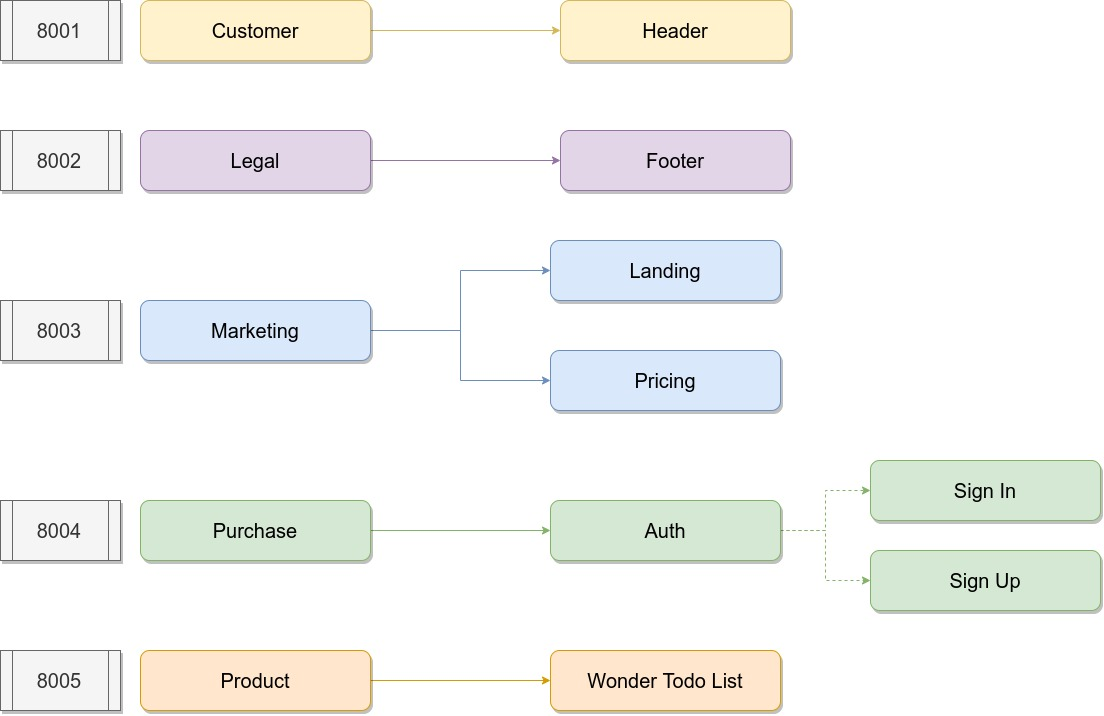
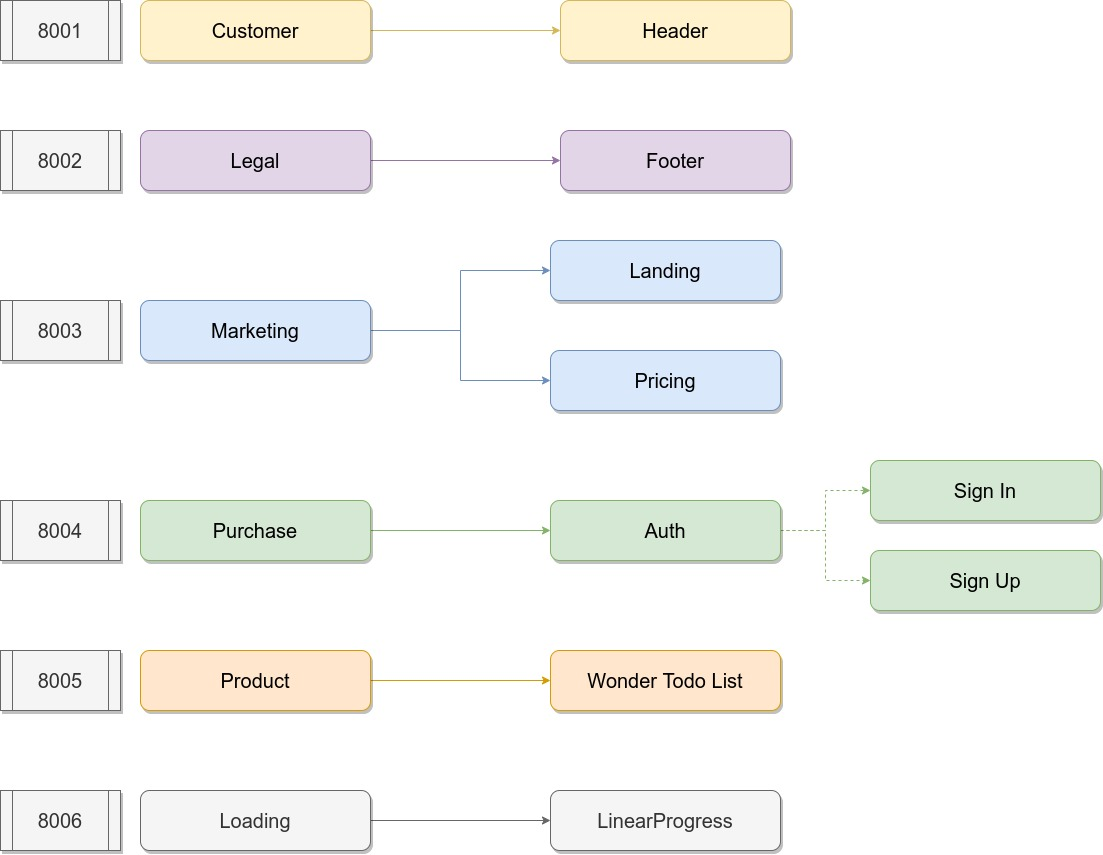
Adding loading component

diff --git a/src/rd-root-config.js b/src/rd-root-config.js
@@ -30,6 +30,9 @@ const data = {
     addSignOutEventListener,
     removeSignOutEventListener,
   },
+  loaders: {
+    wonderloading: () => System.import("@rd/wonder-sspa-loading"),
+  },
 };
 
 const routes = constructRoutes(

diff --git a/README.md b/README.md
@@ -20,15 +20,17 @@ The list of all Micro Frontends of the Wonder SSPA Project is:
 + [Wonder SSPA Container](https://github.com/dancortes-git/wonder-sspa-container):
   + Container application using [Single SPA](https://single-spa.js.org/).
 + [Wonder SSPA Customer](https://github.com/dancortes-git/wonder-sspa-customer):
-  + Header of the application using [Single SPA](https://single-spa.js.org/).
+  + Header of the application using [Single SPA](https://single-spa.js.org/) (React App).
 + [Wonder SSPA Legal](https://github.com/dancortes-git/wonder-sspa-legal):
-  + Footer of the application using [Single SPA](https://single-spa.js.org/).
+  + Footer of the application using [Single SPA](https://single-spa.js.org/) (React App).
 + [Wonder SSPA Purchase](https://github.com/dancortes-git/wonder-sspa-purchase):
-  + Sign In and Sign Up of the application using [Single SPA](https://single-spa.js.org/).
+  + Sign In and Sign Up of the application using [Single SPA](https://single-spa.js.org/) (React App).
 + [Wonder SSPA Marketing](https://github.com/dancortes-git/wonder-sspa-marketing):
-  + Landing and Pricing Page of the application using [Single SPA](https://single-spa.js.org/).
+  + Landing and Pricing Page of the application using [Single SPA](https://single-spa.js.org/) (React App).
 + [Wonder SSPA Product](https://github.com/dancortes-git/wonder-sspa-product):
-  + The main feature (card todo list) of the application using [Single SPA](https://single-spa.js.org/).
+  + The main feature (card todo list) of the application using [Single SPA](https://single-spa.js.org/) (React App).
++ [Wonder SSPA Loading](https://github.com/dancortes-git/wonder-sspa-loading):
+  + A simple loader using LinearProgress of Material UI [Single SPA](https://single-spa.js.org/) (React App).
 
 
 This project was deployed in a S3 bucket exposed by cloudfront using github actions (CI/CD).
